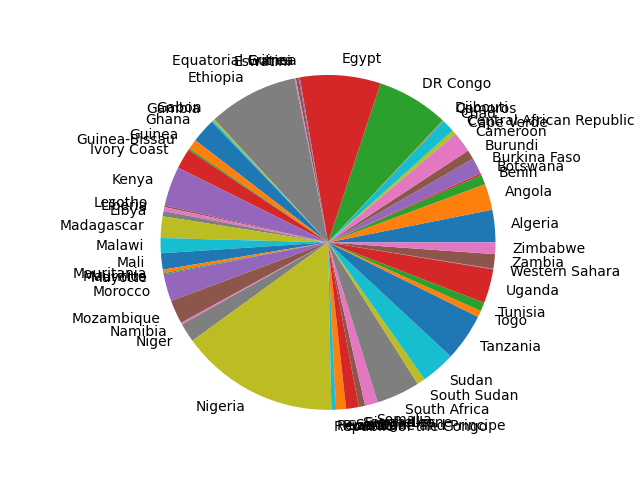
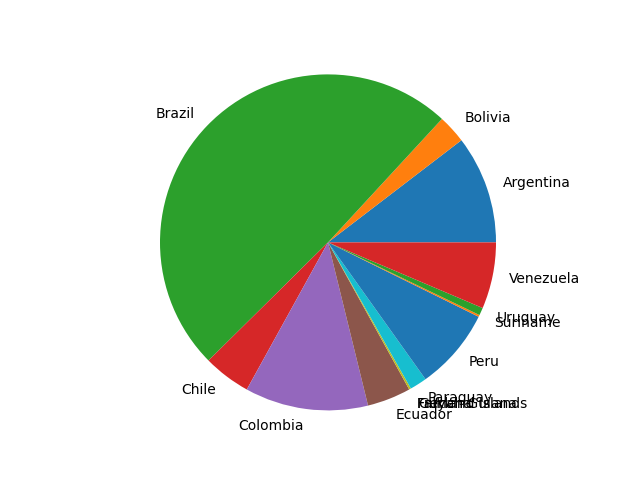
Implementation of Pandas and Requests Libraries

Changed region(s): [[0.0938, 0.0938, 1.0, 0.9062]]

diff --git a/app/main.py b/app/main.py
@@ -5,13 +5,14 @@ import pandas as pd
 
 def run():
   '''
+  ###Forma de obtener la info manualmente sin usar Pandas
   data = list(filter(lambda item : item['Continent'] == 'South America',data))
   countries = list(map(lambda x: x['Country'], data))
   percentages = list(map(lambda x: x['World Population Percentage'], data))
   '''
 
   df = pd.read_csv('data.csv')
-  df = df[df['Continent'] == 'Africa']
+  df = df[df['Continent'] == 'South America']
 
   countries = df['Country'].values
   percentages = df['World Population Percentage'].values

diff --git a/web-server/store.py b/web-server/store.py
@@ -1,0 +1,13 @@
+import requests
+
+def get_categories():
+    r = requests.get("https://api.escuelajs.co/api/v1/categories")
+    print(r.status_code)
+    print(r.text)   ##Returns the info as a string
+    print(type(r.text))
+
+    categories = r.json() ##Returns the info as a json (dict)
+    for category in categories:
+        print(category["name"])
+        
+

diff --git a/web-server/main.py b/web-server/main.py
@@ -1,0 +1,8 @@
+import store
+
+def run():
+    store.get_categories()
+
+if __name__ == "__main__":
+    run()
+
